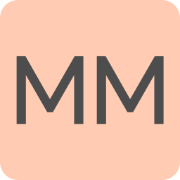
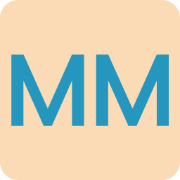
Updates content and styling

Changed region(s): [[0.0556, 0.2778, 0.4722, 0.7222], [0.5278, 0.2778, 0.9444, 0.7222]]

diff --git a/index.html b/index.html
@@ -45,7 +45,7 @@
       <h1><a href="index.html">Michael Martin</a></h1>
       <!-- Uncomment below if you prefer to use an image logo -->
       <!-- <a href="index.html" class="mr-auto"><img src="assets/img/logo.png" alt="" class="img-fluid"></a> -->
-      <h2>I'm a passionate <span>full-stack developer</span> from Chicago</h2>
+      <h2>I'm a resourceful, dedicated <span>software engineer</span> from Chicago</h2>
 
       <nav id="navbar" class="navbar">
         <ul>
@@ -73,8 +73,7 @@
     <div class="about-me container">
 
       <div class="section-title">
-        <h2>About</h2>
-        <p>Learn more about me</p>
+        <h2>About Me</h2>
       </div>
 
       <div class="row">
@@ -82,24 +81,20 @@
           <img src="assets/img/me.jpg" class="img-fluid" alt="">
         </div>
         <div class="col-lg-8 pt-4 pt-lg-0 content" data-aos="fade-left">
-          <h3>UI/UX &amp; Graphic Designer</h3>
+          <h3>Software Engineer</h3>
           <p class="fst-italic">
-            Lorem ipsum dolor sit amet, consectetur adipiscing elit, sed do eiusmod tempor incididunt ut labore et dolore
-            magna aliqua.
+            Full-stack developer with a passion for learning and delivering exceptional client experiences.
           </p>
           <div class="row">
             <div class="col-lg-6">
               <ul>
                 <li><i class="bi bi-chevron-right"></i> <strong>Birthday:</strong> <span>15 August</span></li>
-                <li><i class="bi bi-chevron-right"></i> <strong>City:</strong> <span>Chicago, IL, USA</span></li>
+                
               </ul>
             </div>
             <div class="col-lg-6">
               <ul>
-                <li><i class="bi bi-chevron-right"></i> <strong>Age:</strong> <span>30</span></li>
-                <li><i class="bi bi-chevron-right"></i> <strong>Degree:</strong> <span>Master</span></li>
-                <li><i class="bi bi-chevron-right"></i> <strong>PhEmailone:</strong> <span>email@example.com</span></li>
-                <li><i class="bi bi-chevron-right"></i> <strong>Freelance:</strong> <span>Available</span></li>
+                <li><i class="bi bi-chevron-right"></i> <strong>City:</strong> <span>Chicago, IL, USA</span></li>
               </ul>
             </div>
           </div>
@@ -112,7 +107,7 @@
 
     </div><!-- End About Me -->
 
-    <!-- ======= Counts ======= -->
+    <!-- ======= Counts =======
     <div class="counts container">
 
       <div class="row">
@@ -151,9 +146,9 @@
 
       </div>
 
-    </div><!-- End Counts -->
+    </div>End Counts -->
 
-    <!-- ======= Skills  ======= -->
+    <!-- ======= Skills  =======
     <div class="skills container">
 
       <div class="section-title">
@@ -214,86 +209,86 @@
 
       </div>
 
-    </div><!-- End Skills -->
+    </div>End Skills -->
 
-    <!-- ======= Interests ======= -->
+    <!-- =======  ======= -->
     <div class="interests container">
 
       <div class="section-title">
-        <h2>Interests</h2>
+        <h2>Skills</h2>
       </div>
 
       <div class="row">
         <div class="col-lg-3 col-md-4">
           <div class="icon-box">
-            <i class="ri-store-line" style="color: #ffbb2c;"></i>
-            <h3>Lorem Ipsum</h3>
+            <i class="ri-vip-diamond-line" style="color: #ffbb2c;"></i>
+            <h3>Ruby on Rails</h3>
           </div>
         </div>
         <div class="col-lg-3 col-md-4 mt-4 mt-md-0">
           <div class="icon-box">
-            <i class="ri-bar-chart-box-line" style="color: #5578ff;"></i>
-            <h3>Dolor Sitema</h3>
+            <i class="ri-braces-line" style="color: #5578ff;"></i>
+            <h3>JavaScript</h3>
           </div>
         </div>
         <div class="col-lg-3 col-md-4 mt-4 mt-md-0">
           <div class="icon-box">
-            <i class="ri-calendar-todo-line" style="color: #e80368;"></i>
-            <h3>Sed perspiciatis</h3>
+            <i class="ri-vuejs-line" style="color: #e80368;"></i>
+            <h3>Vue.js</h3>
           </div>
         </div>
         <div class="col-lg-3 col-md-4 mt-4 mt-lg-0">
           <div class="icon-box">
-            <i class="ri-paint-brush-line" style="color: #e361ff;"></i>
-            <h3>Magni Dolores</h3>
+            <i class="ri-html5-line" style="color: #e361ff;"></i>
+            <h3>HTML</h3>
           </div>
         </div>
         <div class="col-lg-3 col-md-4 mt-4">
           <div class="icon-box">
-            <i class="ri-database-2-line" style="color: #47aeff;"></i>
-            <h3>Nemo Enim</h3>
+            <i class="ri-css3-line" style="color: #47aeff;"></i>
+            <h3>CSS</h3>
           </div>
         </div>
         <div class="col-lg-3 col-md-4 mt-4">
           <div class="icon-box">
-            <i class="ri-gradienter-line" style="color: #ffa76e;"></i>
-            <h3>Eiusmod Tempor</h3>
+            <i class="ri-git-branch-line" style="color: #ffa76e;"></i>
+            <h3>Git</h3>
           </div>
         </div>
         <div class="col-lg-3 col-md-4 mt-4">
           <div class="icon-box">
-            <i class="ri-file-list-3-line" style="color: #11dbcf;"></i>
-            <h3>Midela Teren</h3>
+            <i class="ri-github-line" style="color: #11dbcf;"></i>
+            <h3>GitHub</h3>
           </div>
         </div>
         <div class="col-lg-3 col-md-4 mt-4">
           <div class="icon-box">
-            <i class="ri-price-tag-2-line" style="color: #4233ff;"></i>
-            <h3>Pira Neve</h3>
+            <i class="ri-file-code-line" style="color: #4233ff;"></i>
+            <h3>APIs</h3>
           </div>
         </div>
         <div class="col-lg-3 col-md-4 mt-4">
           <div class="icon-box">
-            <i class="ri-anchor-line" style="color: #b2904f;"></i>
-            <h3>Dirada Pack</h3>
+            <i class="ri-code-line" style="color: #b2904f;"></i>
+            <h3>OOP</h3>
           </div>
         </div>
         <div class="col-lg-3 col-md-4 mt-4">
           <div class="icon-box">
-            <i class="ri-disc-line" style="color: #b20969;"></i>
-            <h3>Moton Ideal</h3>
+            <i class="ri-bold" style="color: #b20969;"></i>
+            <h3>Bootstrap</h3>
           </div>
         </div>
         <div class="col-lg-3 col-md-4 mt-4">
           <div class="icon-box">
-            <i class="ri-base-station-line" style="color: #ff5828;"></i>
-            <h3>Verdo Park</h3>
+            <i class="ri-computer-line" style="color: #ff5828;"></i>
+            <h3>Front-end development</h3>
           </div>
         </div>
         <div class="col-lg-3 col-md-4 mt-4">
           <div class="icon-box">
-            <i class="ri-fingerprint-line" style="color: #29cc61;"></i>
-            <h3>Flavor Nivelanda</h3>
+            <i class="ri-server-line" style="color: #29cc61;"></i>
+            <h3>Back-end development</h3>
           </div>
         </div>
       </div>
@@ -599,26 +594,23 @@
         <p>Contact Me</p>
       </div>
 
-      <div class="row mt-2">
+       <div class="row mt-2">
 
-        <div class="col-md-6 d-flex align-items-stretch">
+         <!-- <div class="col-md-6 d-flex align-items-stretch">
           <div class="info-box">
             <i class="bx bx-map"></i>
             <h3>My Address</h3>
             <p>A108 Adam Street, New York, NY 535022</p>
           </div>
-        </div>
+        </div> -->
 
-        <div class="col-md-6 mt-4 mt-md-0 d-flex align-items-stretch">
+        <div class="col-md-6 mt-4 d-flex align-items-stretch">
           <div class="info-box">
             <i class="bx bx-share-alt"></i>
             <h3>Social Profiles</h3>
             <div class="social-links">
-              <a href="#" class="twitter"><i class="bi bi-twitter"></i></a>
-              <a href="#" class="facebook"><i class="bi bi-facebook"></i></a>
-              <a href="#" class="instagram"><i class="bi bi-instagram"></i></a>
-              <a href="#" class="google-plus"><i class="bi bi-skype"></i></a>
-              <a href="#" class="linkedin"><i class="bi bi-linkedin"></i></a>
+              <a href="https://github.com/michaelrmartin" class="github"><i class="bi bi-github"></i></a>
+              <a href="https://www.linkedin.com/in/michaelryanmartin/" class="linkedin"><i class="bi bi-linkedin"></i></a>
             </div>
           </div>
         </div>
@@ -627,19 +619,19 @@
           <div class="info-box">
             <i class="bx bx-envelope"></i>
             <h3>Email Me</h3>
-            <p>contact@example.com</p>
+            <p>michael.martin.815@gmail.com</p>
           </div>
         </div>
-        <div class="col-md-6 mt-4 d-flex align-items-stretch">
+        <!-- <div class="col-md-6 mt-4 d-flex align-items-stretch">
           <div class="info-box">
             <i class="bx bx-phone-call"></i>
             <h3>Call Me</h3>
             <p>+1 5589 55488 55</p>
           </div>
         </div>
-      </div>
+      </div> -->
 
-      <form action="forms/contact.php" method="post" role="form" class="php-email-form mt-4">
+      <!-- <form action="forms/contact.php" method="post" role="form" class="php-email-form mt-4">
         <div class="row">
           <div class="col-md-6 form-group">
             <input type="text" name="name" class="form-control" id="name" placeholder="Your Name" required>
@@ -660,7 +652,7 @@
           <div class="sent-message">Your message has been sent. Thank you!</div>
         </div>
         <div class="text-center"><button type="submit">Send Message</button></div>
-      </form>
+      </form> -->
 
     </div>
   </section><!-- End Contact Section -->

diff --git a/assets/css/style.css b/assets/css/style.css
@@ -80,9 +80,14 @@ h6 {
   font-family: "Poppins", sans-serif;
 }
 
-#header h1 a,
+#header h1 a {
+    color: #4d4d4d;
+    line-height: 1;
+    display: inline-block;
+}
+
 #header h1 a:hover {
-  color: #383838;
+  color: #2596be;
   line-height: 1;
   display: inline-block;
 }
@@ -95,7 +100,7 @@ h6 {
 
 #header h2 span {
   color: #4d4d4d;
-  border-bottom: 2px solid #18d26e;
+  border-bottom: 2px solid #2596be;
   padding-bottom: 6px;
   font-weight: bold;
 }
@@ -125,7 +130,7 @@ h6 {
 }
 
 #header .social-links a:hover {
-  background: #18d26e;
+  background: #2596be;
 }
 
 @media (max-width: 992px) {
@@ -167,7 +172,7 @@ h6 {
 #header.header-top h1 {
   margin-right: auto;
   font-size: 36px;
-  color: #ffffff;
+  color: #2596be;
 }
 
 #header.header-top .container {
@@ -244,7 +249,7 @@ h6 {
   height: 2px;
   bottom: -4px;
   left: 0;
-  background-color: #18d26e;
+  background-color: #2596be;
   visibility: hidden;
   width: 0px;
   transition: all 0.3s ease-in-out 0s;
@@ -261,7 +266,7 @@ h6 {
 .navbar .active,
 .navbar .active:focus,
 .navbar li:hover>a {
-  color: #fff;
+  color: #2596be;
 }
 
 /**
@@ -1178,7 +1183,7 @@ section .container {
 }
 
 .credits a {
-  color: #18d26e;
+  color: #2596be;
   transition: 0.3s;
 }
 
